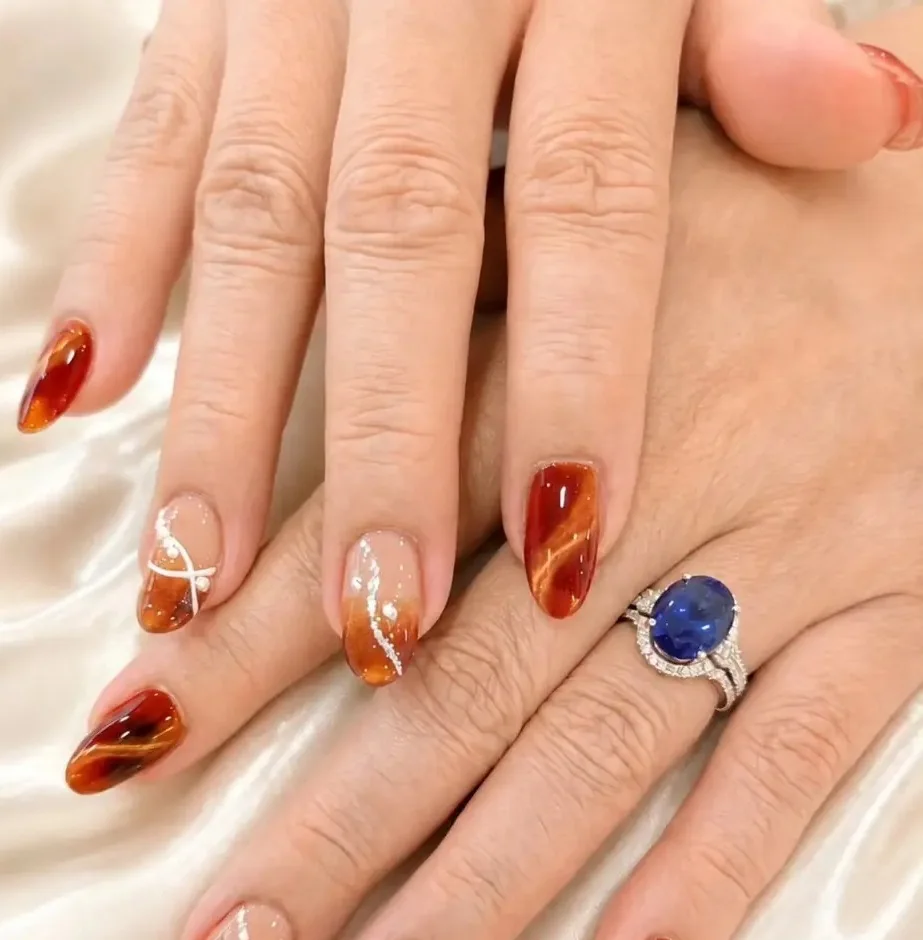
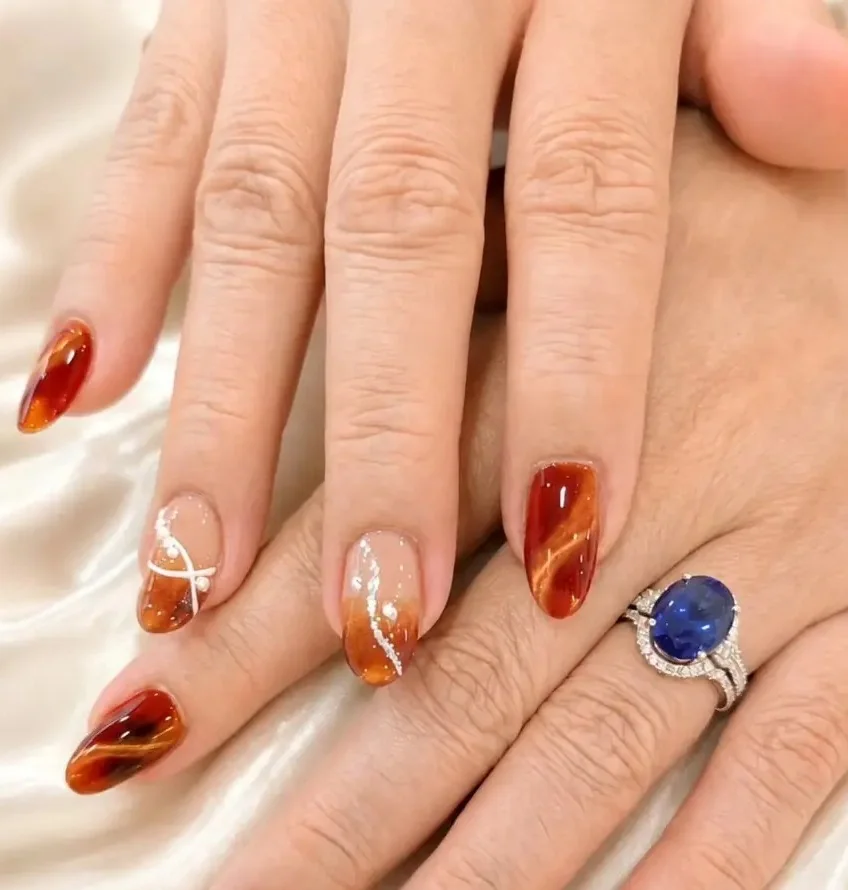
fix(website): hero photo shows only complete nails
Re-crop the hero photo (848x890) so no partially visible nail sits on
any edge; frame ratio and tests updated to match.

Claude-Session: https://claude.ai/code/session_01UE5MHHiXgikpB3t6j3n4w1

diff --git a/app/globals.css b/app/globals.css
@@ -1289,7 +1289,7 @@ html[lang="zh-CN"] .signature-service-copy h3{font-family:var(--font-cjk),sans-s
   margin-left: 0;
 }
 
-/* The hero frame follows the photo's own ratio (923 x 940) and the image is
+/* The hero frame follows the photo's own ratio (848 x 890) and the image is
    never cropped: every finger and nail stays fully visible at every width. */
 .home-hero-media {
   position: relative;
@@ -1299,7 +1299,7 @@ html[lang="zh-CN"] .signature-service-copy h3{font-family:var(--font-cjk),sans-s
   margin: 0;
   justify-self: end;
   overflow: hidden;
-  aspect-ratio: 923 / 940;
+  aspect-ratio: 848 / 890;
   border-radius: 26px;
   background: var(--color-pink);
 }

diff --git a/config/homepage.ts b/config/homepage.ts
@@ -31,8 +31,8 @@ export const homepage: HomepageImages = {
   // Real Mezzanail client work. The frame uses the photo's own ratio, so no nail is cropped.
   heroImage: {
     src: "/home/hero-tortoiseshell.webp",
-    width: 923,
-    height: 940,
+    width: 848,
+    height: 890,
     alt: {
       en: "Tortoiseshell almond nails with pearl line art by Mezzanail",
       zh: "Mezzanail 作品：玳瑁杏仁甲配珍珠线条彩绘",
